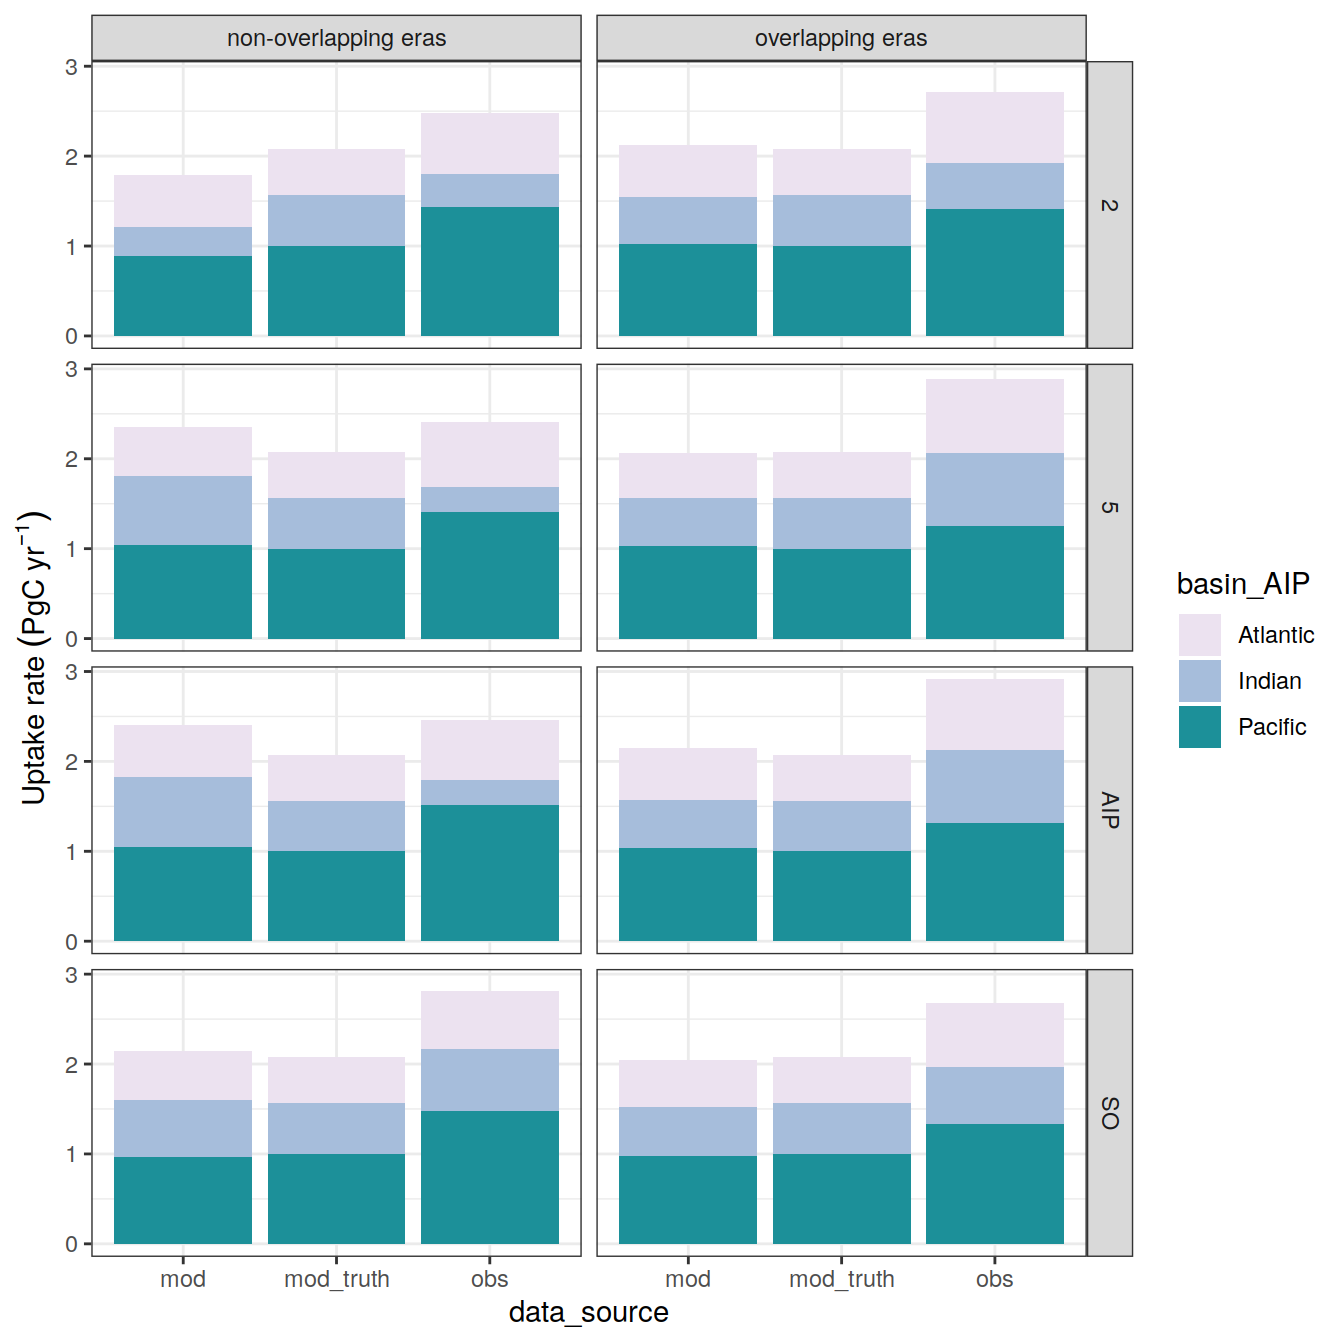
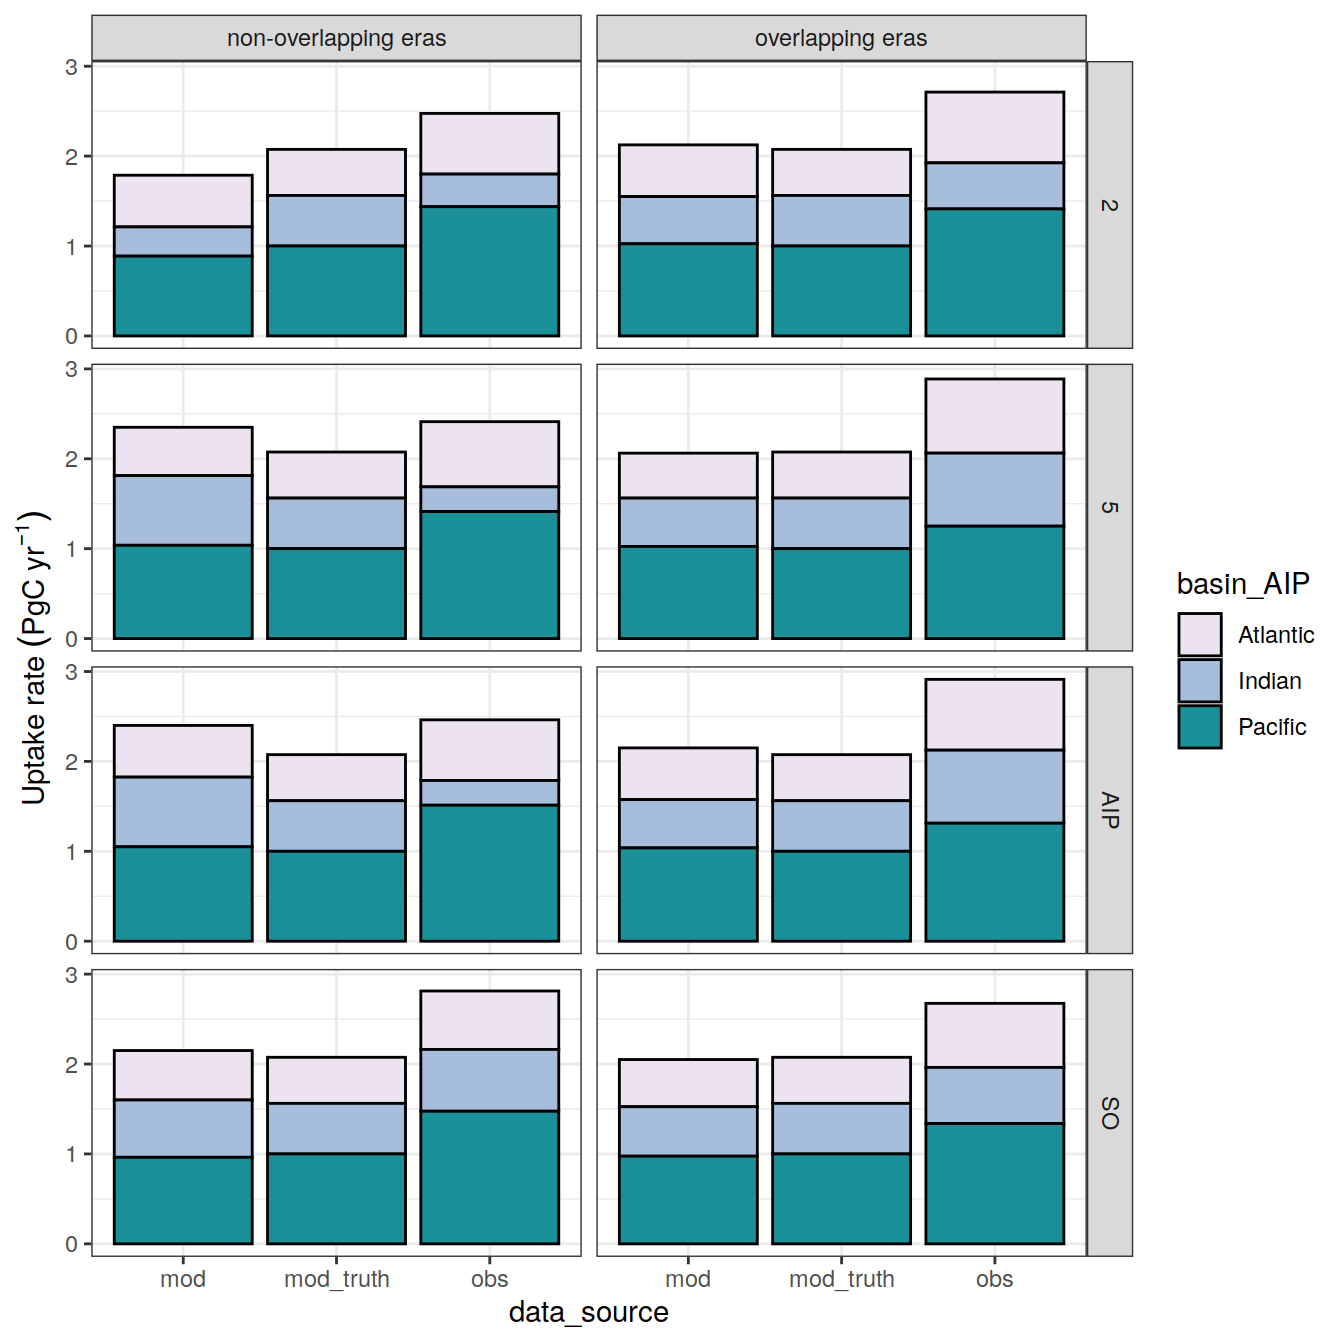
Build site.

diff --git a/docs/column_inventories.html b/docs/column_inventories.html
@@ -545,16 +545,16 @@ This reproducible <a href="http://rmarkdown.rstudio.com">R Markdown</a> analysis
 <div class="panel panel-default">
 <div class="panel-heading">
 <p class="panel-title">
-<a data-toggle="collapse" data-parent="#workflowr-checks" href="#strongRepositoryversionstrongahrefhttpsgithubcomjensdanielmuelleremlrobsanalysistree3c6f0f492558327d022845264c474fabc914db9ftargetblank3c6f0f4a"> <span class="glyphicon glyphicon-ok text-success" aria-hidden="true"></span> <strong>Repository version:</strong> <a href="https://github.com/jens-daniel-mueller/emlr_obs_analysis/tree/3c6f0f492558327d022845264c474fabc914db9f" target="_blank">3c6f0f4</a> </a>
+<a data-toggle="collapse" data-parent="#workflowr-checks" href="#strongRepositoryversionstrongahrefhttpsgithubcomjensdanielmuelleremlrobsanalysistree87a8c49216411e226b96d9a8a7450f71aa573513targetblank87a8c49a"> <span class="glyphicon glyphicon-ok text-success" aria-hidden="true"></span> <strong>Repository version:</strong> <a href="https://github.com/jens-daniel-mueller/emlr_obs_analysis/tree/87a8c49216411e226b96d9a8a7450f71aa573513" target="_blank">87a8c49</a> </a>
 </p>
 </div>
[2 lines of base64/hex data omitted]
 <div class="panel-body">
 <p>
 Great! You are using Git for version control. Tracking code development and connecting the code version to the results is critical for reproducibility.
 </p>
 <p>
-The results in this page were generated with repository version <a href="https://github.com/jens-daniel-mueller/emlr_obs_analysis/tree/3c6f0f492558327d022845264c474fabc914db9f" target="_blank">3c6f0f4</a>. See the <em>Past versions</em> tab to see a history of the changes made to the R Markdown and HTML files.
+The results in this page were generated with repository version <a href="https://github.com/jens-daniel-mueller/emlr_obs_analysis/tree/87a8c49216411e226b96d9a8a7450f71aa573513" target="_blank">87a8c49</a>. See the <em>Past versions</em> tab to see a history of the changes made to the R Markdown and HTML files.
 </p>
 <p>
 Note that you need to be careful to ensure that all relevant files for the analysis have been committed to Git prior to generating the results (you can use <code>wflow_publish</code> or <code>wflow_git_commit</code>). workflowr only checks the R Markdown file, but you know if there are other scripts or data files that it depends on. Below is the status of the Git repository when the results were generated:
@@ -607,6 +607,40 @@ Message
 </tr>
 </thead>
 <tbody>
+<tr>
+<td>
+Rmd
+</td>
+<td>
+<a href="https://github.com/jens-daniel-mueller/emlr_obs_analysis/blob/87a8c49216411e226b96d9a8a7450f71aa573513/analysis/column_inventories.Rmd" target="_blank">87a8c49</a>
+</td>
+<td>
+jens-daniel-mueller
+</td>
+<td>
+2021-05-28
+</td>
+<td>
+plotted Canyon B max
+</td>
+</tr>
+<tr>
+<td>
+html
+</td>
+<td>
+<a href="https://rawcdn.githack.com/jens-daniel-mueller/emlr_obs_analysis/998f4a66995b08afa6f44770cc46bb5545f80213/docs/column_inventories.html" target="_blank">998f4a6</a>
+</td>
+<td>
+jens-daniel-mueller
+</td>
+<td>
+2021-05-28
+</td>
+<td>
+Build site.
+</td>
+</tr>
 <tr>
 <td>
 Rmd
@@ -1131,12 +1165,86 @@ cant_inv_all_bias_sub %&gt;%
                  subtitle_text = &quot;data_source: observations&quot;) +
   facet_grid(MLR_basins ~ era_duplication)</code></pre>
 <p><img src="figure/column_inventories.Rmd/column_inventory_maps_regions_eras-1.png" width="672" style="display: block; margin: auto;" /></p>
+<p>
+<button type="button" class="btn btn-default btn-xs btn-workflowr btn-workflowr-fig" data-toggle="collapse" data-target="#fig-column_inventory_maps_regions_eras-1">
+Past versions of column_inventory_maps_regions_eras-1.png
+</button>
+</p>
+<div id="fig-column_inventory_maps_regions_eras-1" class="collapse">
+<div class="table-responsive">
+<table class="table table-condensed table-hover">
+<thead>
+<tr>
+<th>
+Version
+</th>
+<th>
+Author
+</th>
+<th>
+Date
+</th>
+</tr>
+</thead>
+<tbody>
+<tr>
+<td>
+<a href="https://github.com/jens-daniel-mueller/emlr_obs_analysis/blob/998f4a66995b08afa6f44770cc46bb5545f80213/docs/figure/column_inventories.Rmd/column_inventory_maps_regions_eras-1.png" target="_blank">998f4a6</a>
+</td>
+<td>
+jens-daniel-mueller
+</td>
+<td>
+2021-05-28
+</td>
+</tr>
+</tbody>
+</table>
+</div>
+</div>
 <pre class="r"><code>cant_inv_all_bias_sub %&gt;%
   p_map_cant_inv(var = &quot;cant_bias&quot;,
                  col = &quot;bias&quot;,
                  subtitle_text = &quot;data_source: mod - mod_truth&quot;) +
   facet_grid(MLR_basins ~ era_duplication)</code></pre>
 <p><img src="figure/column_inventories.Rmd/column_inventory_maps_regions_eras-2.png" width="672" style="display: block; margin: auto;" /></p>
+<p>
+<button type="button" class="btn btn-default btn-xs btn-workflowr btn-workflowr-fig" data-toggle="collapse" data-target="#fig-column_inventory_maps_regions_eras-2">
+Past versions of column_inventory_maps_regions_eras-2.png
+</button>
+</p>
+<div id="fig-column_inventory_maps_regions_eras-2" class="collapse">
+<div class="table-responsive">
+<table class="table table-condensed table-hover">
+<thead>
+<tr>
+<th>
+Version
+</th>
+<th>
+Author
+</th>
+<th>
+Date
+</th>
+</tr>
+</thead>
+<tbody>
+<tr>
+<td>
+<a href="https://github.com/jens-daniel-mueller/emlr_obs_analysis/blob/998f4a66995b08afa6f44770cc46bb5545f80213/docs/figure/column_inventories.Rmd/column_inventory_maps_regions_eras-2.png" target="_blank">998f4a6</a>
+</td>
+<td>
+jens-daniel-mueller
+</td>
+<td>
+2021-05-28
+</td>
+</tr>
+</tbody>
+</table>
+</div>
+</div>
 <pre class="r"><code>rm(cant_inv_all_bias_sub)</code></pre>
 </div>
 <div id="budgets" class="section level2" number="2.2">
@@ -1149,10 +1257,47 @@ cant_inv_all_bias_sub %&gt;%
 cant_inv_budget_sub %&gt;%
   ggplot(aes(data_source, cant_total/duration, fill = basin_AIP)) +
   scale_fill_brewer(palette = &quot;PuBuGn&quot;) +
-  geom_col() +
+  geom_col(col = &quot;black&quot;) +
   labs(y = expression(Uptake~rate ~ (PgC ~ yr ^ {-1}))) +
   facet_grid(MLR_basins ~ era_duplication)</code></pre>
 <p><img src="figure/column_inventories.Rmd/budgets_regional_regions_eras-1.png" width="672" style="display: block; margin: auto;" /></p>
+<p>
+<button type="button" class="btn btn-default btn-xs btn-workflowr btn-workflowr-fig" data-toggle="collapse" data-target="#fig-budgets_regional_regions_eras-1">
+Past versions of budgets_regional_regions_eras-1.png
+</button>
+</p>
+<div id="fig-budgets_regional_regions_eras-1" class="collapse">
+<div class="table-responsive">
+<table class="table table-condensed table-hover">
+<thead>
+<tr>
+<th>
+Version
+</th>
+<th>
+Author
+</th>
+<th>
+Date
+</th>
+</tr>
+</thead>
+<tbody>
+<tr>
+<td>
+<a href="https://github.com/jens-daniel-mueller/emlr_obs_analysis/blob/998f4a66995b08afa6f44770cc46bb5545f80213/docs/figure/column_inventories.Rmd/budgets_regional_regions_eras-1.png" target="_blank">998f4a6</a>
+</td>
+<td>
+jens-daniel-mueller
+</td>
+<td>
+2021-05-28
+</td>
+</tr>
+</tbody>
+</table>
+</div>
+</div>
 </div>
 <div id="global" class="section level3" number="2.2.2">
 <h3 number="2.2.2"><span class="header-section-number">2.2.2</span> Global</h3>
@@ -1168,14 +1313,101 @@ cant_inv_budget_sub %&gt;%
        x = &quot;&quot;) +
   scale_fill_brewer(palette = &quot;PuBuGn&quot;)</code></pre>
 <p><img src="figure/column_inventories.Rmd/budget_global_regions_eras-1.png" width="672" style="display: block; margin: auto;" /></p>
+<p>
+<button type="button" class="btn btn-default btn-xs btn-workflowr btn-workflowr-fig" data-toggle="collapse" data-target="#fig-budget_global_regions_eras-1">
+Past versions of budget_global_regions_eras-1.png
+</button>
+</p>
+<div id="fig-budget_global_regions_eras-1" class="collapse">
+<div class="table-responsive">
+<table class="table table-condensed table-hover">
+<thead>
+<tr>
+<th>
+Version
+</th>
+<th>
+Author
+</th>
+<th>
+Date
+</th>
+</tr>
+</thead>
+<tbody>
+<tr>
+<td>
+<a href="https://github.com/jens-daniel-mueller/emlr_obs_analysis/blob/998f4a66995b08afa6f44770cc46bb5545f80213/docs/figure/column_inventories.Rmd/budget_global_regions_eras-1.png" target="_blank">998f4a6</a>
+</td>
+<td>
+jens-daniel-mueller
+</td>
+<td>
+2021-05-28
+</td>
+</tr>
+</tbody>
+</table>
+</div>
+</div>
 <pre class="r"><code>rm(cant_inv_all_bias_sub)</code></pre>
 </div>
 </div>
 </div>
-<div id="cleaning-operations" class="section level1" number="3">
-<h1 number="3"><span class="header-section-number">3</span> Cleaning operations</h1>
-<div id="canyon-b" class="section level2" number="3.1">
-<h2 number="3.1"><span class="header-section-number">3.1</span> CANYON-B</h2>
+<div id="canyon-b-threshold" class="section level1" number="3">
+<h1 number="3"><span class="header-section-number">3</span> CANYON-B threshold</h1>
+<div id="column-inventories-1" class="section level2" number="3.1">
+<h2 number="3.1"><span class="header-section-number">3.1</span> Column inventories</h2>
+<pre class="r"><code>cant_inv_all_bias_sub &lt;- cant_inv_all_bias %&gt;%
+  filter(Version_ID %in% Version_IDs[c(1,11,12)])
+
+cant_inv_all_bias_sub %&gt;% 
+  p_map_cant_inv(var = &quot;obs&quot;,
+                 col = &quot;divergent&quot;,
+                 subtitle_text = &quot;data_source: observations&quot;) +
+  facet_grid(CANYON_B_max ~ .)</code></pre>
+<p><img src="figure/column_inventories.Rmd/column_inventory_maps_CANYON_B_max-1.png" width="672" style="display: block; margin: auto;" /></p>
+<pre class="r"><code>cant_inv_all_bias_sub %&gt;%
+  p_map_cant_inv(var = &quot;cant_bias&quot;,
+                 col = &quot;bias&quot;,
+                 subtitle_text = &quot;data_source: mod - mod_truth&quot;) +
+  facet_grid(CANYON_B_max ~ .)</code></pre>
+<p><img src="figure/column_inventories.Rmd/column_inventory_maps_CANYON_B_max-2.png" width="672" style="display: block; margin: auto;" /></p>
+<pre class="r"><code>rm(cant_inv_all_bias_sub)</code></pre>
+</div>
+<div id="budgets-1" class="section level2" number="3.2">
+<h2 number="3.2"><span class="header-section-number">3.2</span> Budgets</h2>
+<div id="regional-1" class="section level3" number="3.2.1">
+<h3 number="3.2.1"><span class="header-section-number">3.2.1</span> Regional</h3>
+<pre class="r"><code>cant_inv_budget_sub &lt;- cant_inv_budget %&gt;%
+  filter(Version_ID %in% Version_IDs[c(1,11,12)]) %&gt;% 
+  mutate(CANYON_B_max = as.factor(CANYON_B_max))
+
+cant_inv_budget_sub %&gt;%
+  ggplot(aes(data_source, cant_total/duration, fill = basin_AIP)) +
+  scale_fill_brewer(palette = &quot;PuBuGn&quot;) +
+  geom_col(col = &quot;black&quot;) +
+  labs(y = expression(Uptake~rate ~ (PgC ~ yr ^ {-1}))) +
+  facet_grid(CANYON_B_max ~ .)</code></pre>
+<p><img src="figure/column_inventories.Rmd/budgets_regional_CANYON_B_max-1.png" width="672" style="display: block; margin: auto;" /></p>
+</div>
+<div id="global-1" class="section level3" number="3.2.2">
+<h3 number="3.2.2"><span class="header-section-number">3.2.2</span> Global</h3>
+<pre class="r"><code>cant_inv_budget_sub %&gt;%
+  filter(data_source == &quot;obs&quot;) %&gt;% 
+  group_by(CANYON_B_max) %&gt;% 
+  summarise(rate = sum(cant_total/duration)) %&gt;% 
+  ungroup() %&gt;% 
+  ggplot(aes(NA, rate, fill = CANYON_B_max)) +
+  geom_bar(stat=&quot;identity&quot;, position=position_dodge(), col=&quot;black&quot;) +
+  scale_y_continuous() +
+  labs(y = expression(Uptake~rate ~ (PgC ~ yr ^ {-1}))) +
+  scale_fill_brewer(palette = &quot;PuBuGn&quot;) +
+  theme(axis.text.x = element_blank(),
+        axis.title.x = element_blank(),
+        axis.ticks.x = element_blank())</code></pre>
+<p><img src="figure/column_inventories.Rmd/budget_global_CANYON_B_max-1.png" width="672" style="display: block; margin: auto;" /></p>
+<pre class="r"><code>rm(cant_inv_all_bias_sub)</code></pre>
 <br>
 <p>
 <button type="button" class="btn btn-default btn-workflowr btn-workflowr-sessioninfo" data-toggle="collapse" data-target="#workflowr-sessioninfo" style="display: block;">
@@ -1234,6 +1466,7 @@ loaded via a namespace (and not attached):
 [64] rprojroot_2.0.2          stringi_1.5.3            parallel_4.0.3          
 [67] Rcpp_1.0.5               vctrs_0.3.5              dbplyr_1.4.4            
 [70] tidyselect_1.1.0         xfun_0.18               </code></pre>
+</div>
 </div>
 </div>
 </div>
